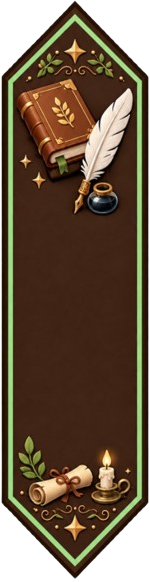
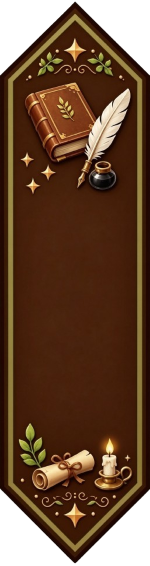
renew 2026/8/23

Changed region(s): [[0.0, 0.0, 1.0, 1.0]]

diff --git a/frontend/LeavesBerry-project/src/utils/user.js b/frontend/LeavesBerry-project/src/utils/user.js
@@ -69,6 +69,7 @@ export const userModule = reactive({
     resetUserInfo() {
         updatePersistFields(userState, { ...DEFAULT_USER_INFO }, persistConfig)
         clearUserInfoFreshness()
+        localStorage.clear('coll_list_cache')
     },
     clear() {
         this.resetUserInfo()
@@ -127,6 +128,7 @@ export const loginModule = reactive({
     visitorEntry: {},
     memberSign: {},
     infoInput: {},
+    isCodeSent: false,
     openLoginWindow() {
         this.window = { display: "block" }
         pageState.showFilter = true
@@ -161,21 +163,9 @@ export const loginModule = reactive({
     async sendCode() {
         const email = this.inputEmail
         if (!email) return
-        disposeReturn(await apiRequest.sendCode(email))
-    },
-    async register() {
-        if (!this.inputCode) {
-            await this.sendCode()
-            return
+        if (!disposeReturn(await apiRequest.sendCode(email))) {
+            this.isCodeSent = true
         }
-        const data = {
-            user_name: this.inputName,
-            user_email: this.inputEmail,
-            code: this.inputCode,
-            password: this.inputPw
-        }
-        const res = await apiRequest.register(data)
-        disposeReturn(res)
     },
     async login() {
         const data = {
@@ -197,5 +187,48 @@ export const loginModule = reactive({
             showTips("您已登出")
             this.openLoginWindow()
         }
-    }
+    },
+    async register() {
+        if (!this.isCodeSent) {
+            await this.sendCode()
+            return
+        }
+
+        const pw = this.inputPw.trim()
+        const email = this.inputEmail.trim()
+        const name = this.inputName.trim()
+        const code = this.inputCode.trim()
+
+        const checkList = [[code,"验证码"],[email,"邮箱"],[name,"名称"],
+            [pw,"密码"]]
+        for (const [val,tip] of checkList) {
+            if(val.length < 1) {
+                showTips(`请填写${tip}`)
+                return
+            }
+        }
+        if (!/[a-zA-Z]/.test(pw) || !/[0,9]/.test(pw)) {
+            showTips("密码必须同时包含数字和字符")
+            return
+        }
+        if (pw.length < 8) {
+            showTips("密码长度必须大于8个字符")
+            return
+        }
+        if (code.length > 6) {
+            showTips("验证码异常")
+            return
+        }
+        const data = {
+            user_name: name,
+            user_email: email,
+            code: code,
+            password: pw
+        }
+        const res = await apiRequest.register(data)
+        if (!disposeReturn(res)) {
+            await this.login()
+        }
+    },
+    
 })

diff --git a/frontend/LeavesBerry-project/src/pages/DrawLots.vue b/frontend/LeavesBerry-project/src/pages/DrawLots.vue
@@ -1,0 +1,50 @@
+<template>
+    <div class="page" id="draw-lots-page">
+        <div id="wifi-tip-window" v-if="!isAgreeLoadOnMD && !isWiFiConnection">
+            <p id="wifi-tip">当前界面需要加载较多的图片资源,约10MB!<br>
+                检测到你当前可能处于非WiFi环境下,可能造成流量开销，是否确认加载？</p>
+        </div>
+        <div v-if="isAgreeLoadOnMD || isWiFiConnection"></div>
+    </div>
+</template>
+
+<script setup>
+import { onMounted, ref } from 'vue';
+import { showTips } from '../utils/index';
+
+const isAgreeLoadOnMD = ref(false)
+const isWiFiConnection = ref(false)
+
+function checkConnection() {
+    const net = navigator.connection || navigator.mozConnection || navigator.webkitConnection;
+    if(!net) {
+        isWiFiConnection.value = false
+        return
+    }
+
+    switch (net) {
+        case "wifi":
+            isWiFiConnection.value = true
+            return;
+        case "cellular":
+            isWiFiConnection.value = false
+            return
+        default:
+            isWiFiConnection.value = false
+            return
+    }
+}
+
+if(navigator.connection) {
+    navigator.connection.addEventListener('change', () => {
+        if (!isAgreeLoadOnMD) {
+            showTips("网络切换,正在重新检测")
+            checkConnection()
+        }
+    })
+}
+
+onMounted(() => {
+    checkConnection()
+})
+</script>

diff --git a/frontend/LeavesBerry-project/src/App.vue b/frontend/LeavesBerry-project/src/App.vue
@@ -288,11 +288,13 @@
         <div id="info-input-box" :style="loginModule.infoInput">
           <button id="rechoose" @click.stop="loginModule.rechoose">返回</button>
           <input id="input-email" v-model="loginModule.inputEmail" placeholder="邮箱"></input>
-          <input id="input-code" v-model="loginModule.inputCode" placeholder="验证码 | 仅注册须填"></input>
-          <input id="input-name" v-model="loginModule.inputName" placeholder="名称 | 仅注册须填"></input>
+          <input id="input-code" v-model="loginModule.inputCode" placeholder="验证码 | 仅注册须填"
+          v-if="loginModule.isCodeSent"></input>
+          <input id="input-name" v-model="loginModule.inputName" placeholder="名称 | 仅注册须填"
+          v-if="loginModule.isCodeSent"></input>
           <input id="input-password" v-model="loginModule.inputPw" placeholder="密码"></input>
-          <button id="register" @click="loginModule.register">
-            {{ loginModule.inputCode ? '注册' : '验证' }}</button>
+          <button id="register" @click="loginModule.isCodeSent ? loginModule.register() : loginModule.sendCode()">
+            {{ loginModule.isCodeSent ? "验证" : "注册" }}</button>
           <button id="login" @click="loginModule.login">登录</button>
         </div>
       </div>

diff --git a/frontend/LeavesBerry-project/src/assets/login.css b/frontend/LeavesBerry-project/src/assets/login.css
@@ -172,7 +172,7 @@
     border-radius: 3vh;
     background-color: #FFF3D0;
     transform-origin: 100% 100%;
-    transition: transform 0.4s ease-out;
+    transition: transform 0.4s cubic-bezier(0.34,1.4,0.64,1);
 }
 
 #member-entry button {
@@ -217,6 +217,9 @@
     background-color: rgba(255, 255, 255, 0.4);
     outline: none;
     padding-left: 3vh;
+    color: #3a251abc;
+    font-size: 3vh;
+    font-weight: 400;
 }
 
 #info-input-box input::placeholder {
@@ -225,31 +228,32 @@
     font-size: 3vh;
     font-weight: 400;
     color: #3a251abc;
-    transform: translateY(10%);
 }
 
 #input-email {
     position: absolute;
     top: 4vh;
-    left: -17vh;
+    left: -15vh;
 }
 
 #input-password {
     position: absolute;
     top: 15vh;
-    left: -17vh;
+    left: -15vh;
 }
 
 #input-name {
     position: absolute;
     top: 26vh;
-    left: -17vh;
+    left: -15vh;
+    display: block;
 }
 
 #input-code {
     position: absolute;
     top: 38vh;
-    left: -17vh;
+    left: -15vh;
+    display: block;
 }
 
 #login {

diff --git a/frontend/LeavesBerry-project/src/pages/Home.vue b/frontend/LeavesBerry-project/src/pages/Home.vue
@@ -4,9 +4,9 @@
 			<img src="/icon/logo.png" id="logo">
 			<div class="home-divider" id="home-d1"></div>
 			<div id="home-icon-box">
-				<img class="home-icon" src="/image/HomeMusicIcon.png">
-				<img class="home-icon" src="/image/HomeDiaryIcon.png">
-				<img class="home-icon" src="/image/HomeGoodIcon.png"> 
+				<img class="home-icon" id="home-music-icon" src="/image/HomeMusicIcon.png">
+				<img class="home-icon" id="home-diary-icon" src="/image/HomeDiaryIcon.png">
+				<img class="home-icon" src="/image/HomeDrawLotsIcon.png">
 			</div>
 			<div class="home-divider" id="home-d2"></div>
 			<span class="home-star" id="home-s1">✦</span>
@@ -88,7 +88,6 @@ import Logo from '../components/Logo.vue';
 	right: 32vw;
 	opacity: 0;
 }
-
 
 @media (min-width: 1px) and (orientation: landscape) {
 	#home-s2,#home-s6{

diff --git a/frontend/LeavesBerry-project/src/components/Sidebar.vue b/frontend/LeavesBerry-project/src/components/Sidebar.vue
@@ -1,11 +1,11 @@
 <template>
     <div class="sidebar">
-        <div class="sidebar-config" v-for="item in typeList" :key="item.index" 
+        <button class="sidebar-config" v-for="item in typeList" :key="item.index" 
             :id="'sidebar-' + item.id" :class="{ activediv: currentSidebarConfig === item.index }"
             @click="handleItemClick(item.index, item.typeKey)">
             <span class="sidebar-config-text"
             :class="{ activespan: currentSidebarConfig === item.index }">❖{{ item.label }}❖</span>
-        </div>
+        </button>
     </div>
 
 </template>

diff --git a/frontend/LeavesBerry-project/src/assets/base.css b/frontend/LeavesBerry-project/src/assets/base.css
@@ -51,6 +51,14 @@ label {
 	box-sizing: border-box;
 }
 
+button {
+	transition: transform  0.2s cubic-bezier(0.34,1.56,0.64,1);
+}
+
+button:active {
+	transform: scale(0.92);
+}
+
 #app {
 	position: relative;
 	min-height: 100dvh;

diff --git a/frontend/LeavesBerry-project/src/assets/config.css b/frontend/LeavesBerry-project/src/assets/config.css
@@ -31,6 +31,11 @@
     -webkit-user-select: none;
     user-select: none;
     cursor: pointer;
+    transition: transform  0.2s cubic-bezier(0.34,1.56,0.64,1);
+}
+
+.item:active {
+	transform: scale(0.96);
 }
 
 .item-title {
